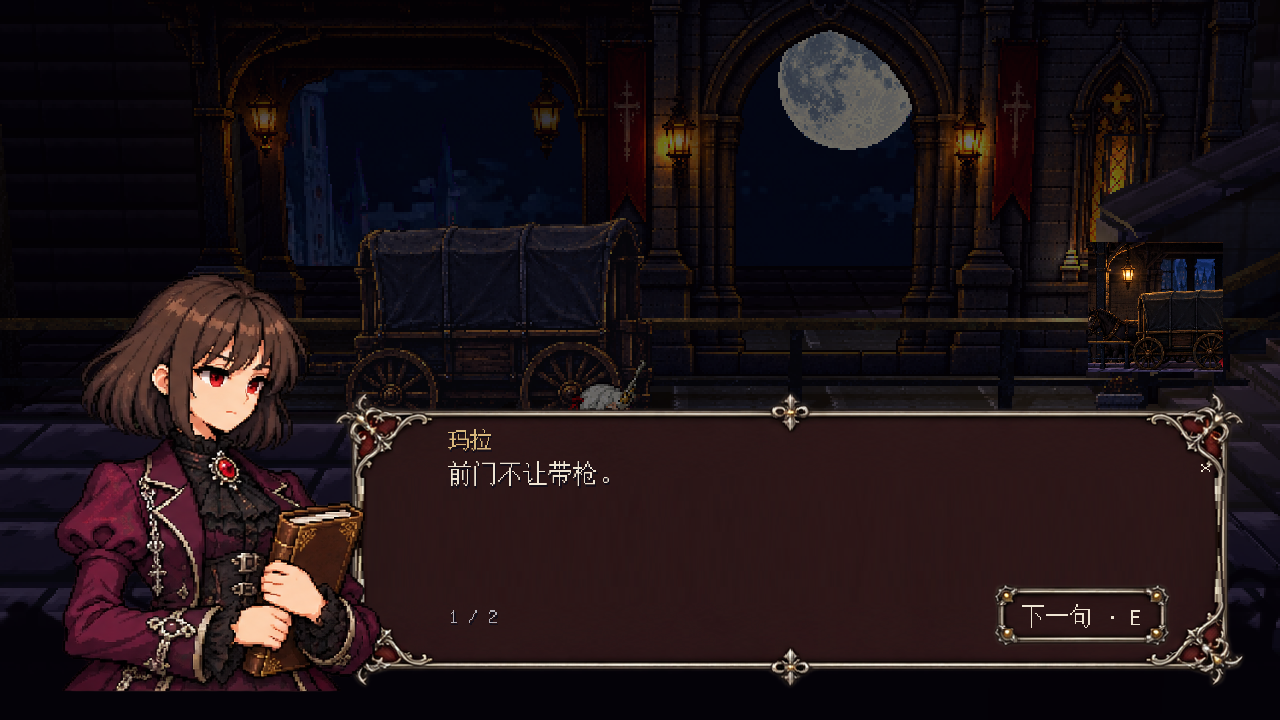
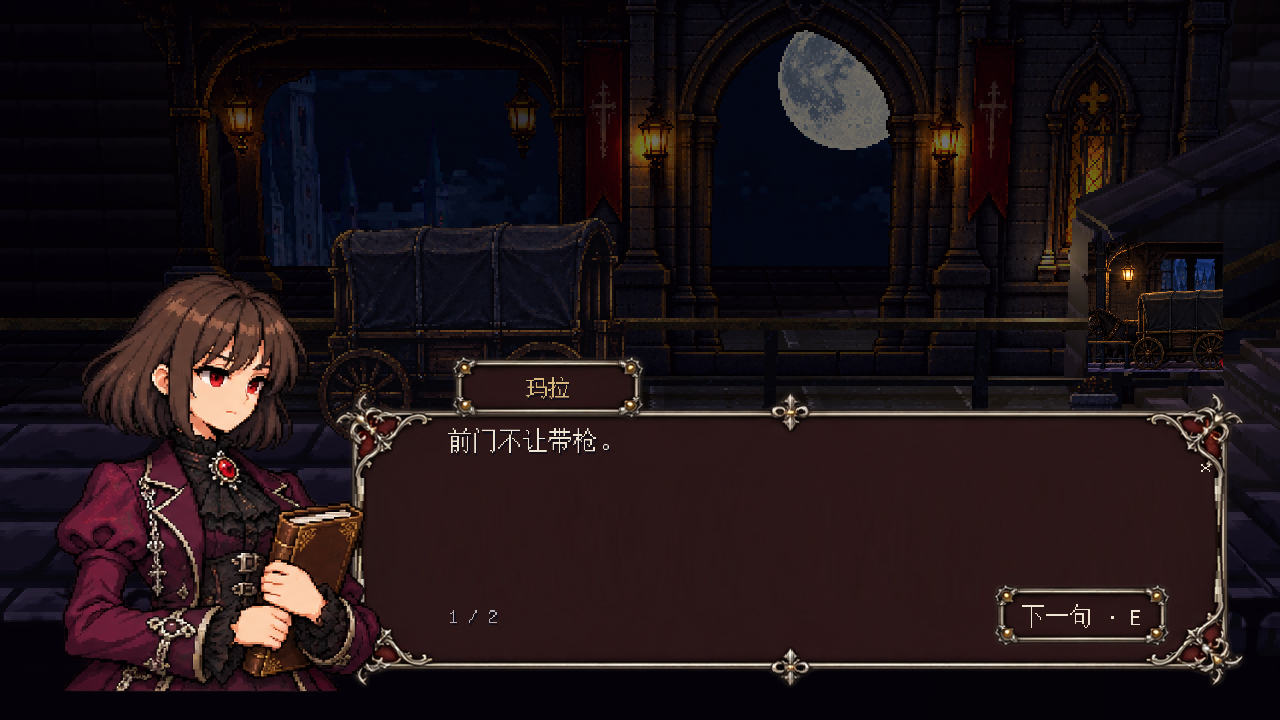
Give dialogue speakers an independent nameplate

diff --git a/dev-design/flow-review/DIALOGUE_AND_DEPTH.md b/dev-design/flow-review/DIALOGUE_AND_DEPTH.md
@@ -43,3 +43,9 @@
 唯一输出 `builds/windows/RecoilRequiem.exe` 已覆盖，以本机 Godot 4.7.2 debug 导出模板构建。从嵌入包独立检查新立绘、NPC、地图与开发资料排除，0失败；EXE 独立启动180帧、退出0，日志无运行错误。测试使用 `--campaign-test`，不覆盖玩家正式存档。
 
[1 lines of base64/hex data omitted]
+
+### 独立名字框补充
+
+说话人姓名移到对白左上沿的独立名牌（1280布局 x448/y352、最小200×72），沿用已有生成的 `button_normal.png` 旧银深红框，原生字体居中，正文不重复姓名。名牌与当页立绘同步，关闭及物品调查时清除。实机检查960、1280、1920与宽屏：立绘不交叠、正文留出间距、姓名留在框内。逐句测试79项和完整UI渲染验收120项通过；该补丁未修改玩法与台词，因此没有重复上一轮全游戏回归。
+
+名字框补丁已覆盖唯一EXE，嵌入资源检查0失败，独立启动180帧退出0。当前包SHA-256：1733317786A0E77D968E64145791A3DA238D82D1707CF61AE11726F7DFFF1F3D。
